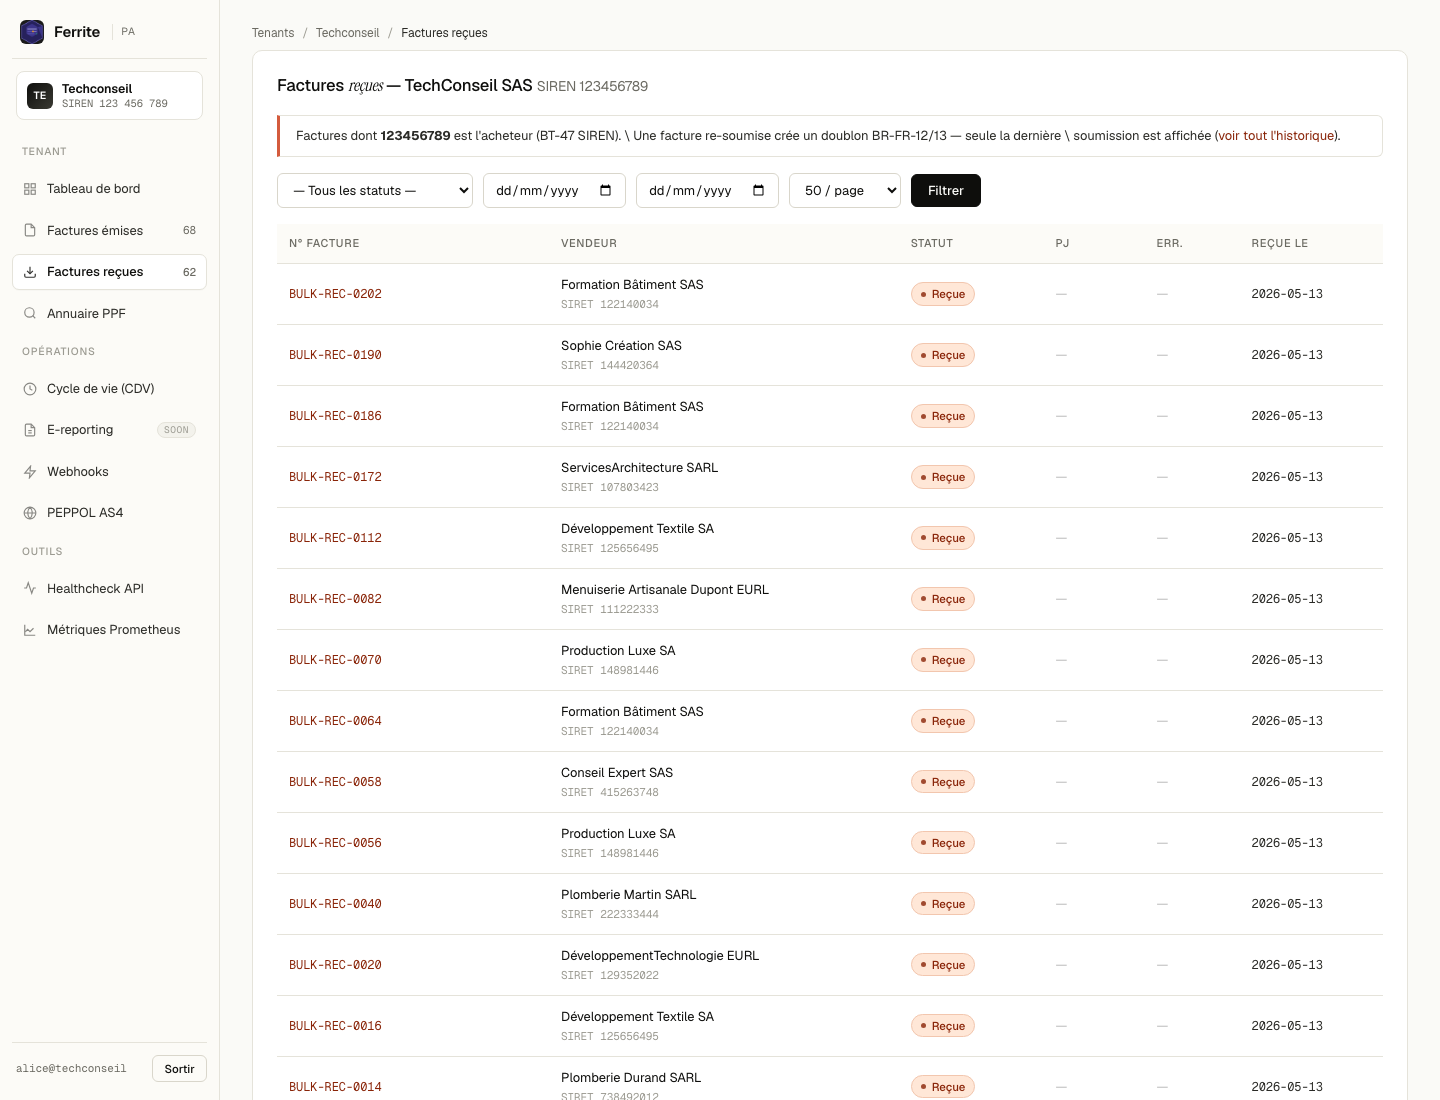
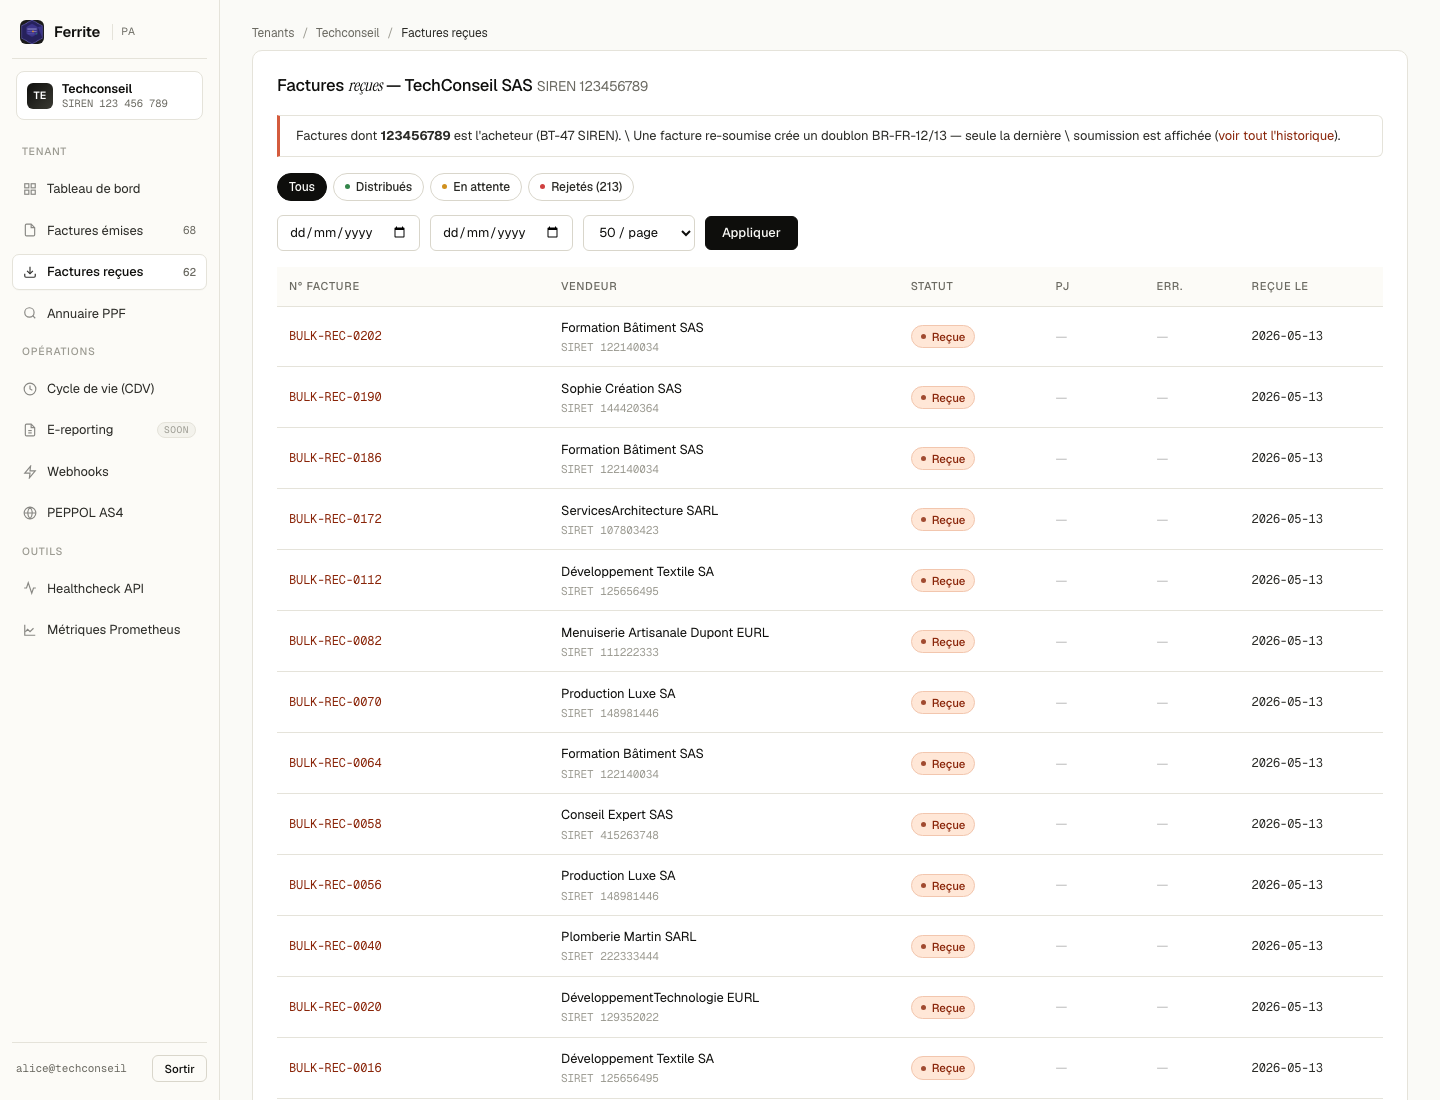
feat(ui): 4 sparklines KPI + filtres status en pills cliquables
- `TraceStore::daily_breakdown_for_siren` : nouvelle struct `DailyBreakdown`
  (total / distributed / pending / errors, 4 Vec<i64> alignés à droite).
  Une seule requête ES avec `date_histogram` + 2 sub-aggregations `filter`
  (distributed / errors). Pending calculé côté Rust pour cohérence avec
  `get_stats_for_siren`.
- Trait `TraceBackend` exposé avec impl par défaut zeros.
- Dashboard : les 4 KPI cards portent maintenant leur propre sparkline 14j
  (currentColor → thémé via `.kpi-card.success/.warn/.bad .spark`).
  La sparkline retourne une chaîne vide si max==0 → pas de noise visuel
  pour les KPI à zéro (ex: En attente).
- Pages Émises/Reçues : remplace le `<select>` status par une rangée de
  `.pill-filter` (liens GET qui préservent from/to/page_size). Pills
  thématiques avec dot color (good/warn/bad) et état actif coloré
  (bg-soft + border + text-ink de la couleur sémantique).
- L'ancien select disparaît, le formulaire garde dates + page_size +
  bouton Appliquer. Status est passé en hidden input pour le submit.

24/24 tests UI verts.

diff --git a/crates/pdp-app/src/ui.rs b/crates/pdp-app/src/ui.rs
@@ -478,6 +478,54 @@ ul.link-list {
 }
 ul.link-list a { font-size: 13.5px; }
 
+/* Filtres statut en pills cliquables (au-dessus de la table) */
+.pill-filters {
+    display: flex;
+    gap: 6px;
+    flex-wrap: wrap;
+    margin-bottom: 0.9rem;
+}
+.pill-filter {
+    display: inline-flex;
+    align-items: center;
+    gap: 6px;
+    font-size: 12px;
+    font-weight: 500;
+    padding: 4px 11px;
+    border-radius: 999px;
+    border: 1px solid var(--line-2);
+    background: #fff;
+    color: var(--ink-2);
+    text-decoration: none;
+    transition: border-color .12s ease, background .12s ease, color .12s ease;
+}
+.pill-filter:hover {
+    border-color: var(--ink-2);
+    color: var(--ink);
+    background: var(--bg-2);
+    text-decoration: none;
+}
+.pill-filter::before {
+    content: '';
+    width: 5px;
+    height: 5px;
+    border-radius: 50%;
+    background: var(--muted-2);
+}
+.pill-filter.pill-ok::before { background: var(--good); }
+.pill-filter.pill-wait::before { background: var(--warn); }
+.pill-filter.pill-err::before { background: var(--bad); }
+.pill-filter.pill-default::before { display: none; }
+.pill-filter.active {
+    border-color: var(--ink);
+    background: var(--ink);
+    color: var(--bg);
+}
+.pill-filter.active.pill-ok { border-color: var(--good-ink); background: var(--good-soft); color: var(--good-ink); }
+.pill-filter.active.pill-wait { border-color: var(--warn-ink); background: var(--warn-soft); color: var(--warn-ink); }
+.pill-filter.active.pill-err { border-color: var(--bad-ink); background: var(--bad-soft); color: var(--bad-ink); }
+.pill-filter.active::before { background: currentColor; opacity: 0.8; }
+
 .card {
     background: var(--card);
     border: 1px solid var(--line);
@@ -1274,10 +1322,16 @@ pub async fn handle_dashboard(
             let pending = stats.total_exchanges - stats.total_distributed - stats.total_errors;
             let tenant_name = resolve_tenant_name(&state, s).await;
             let tenant_label = tenant_name.as_deref().unwrap_or(s);
-            // Sparkline 14 jours sur la KPI "Total flux". Best-effort : si ES
-            // ne répond pas, on retombe sur un Vec vide → SVG vide.
-            let daily = store.daily_counts_for_siren(s, 14).await.unwrap_or_default();
-            let sparkline = sparkline_svg(&daily, 60, 22);
+            // 4 sparklines 14 jours (total / distribués / pending / erreurs) en
+            // une seule requête ES via filter aggregations. Best-effort.
+            let bk = store
+                .daily_breakdown_for_siren(s, 14)
+                .await
+                .unwrap_or_else(|_| pdp_trace::store::DailyBreakdown::zeros(14));
+            let spk_total = sparkline_svg(&bk.total, 60, 22);
+            let spk_distributed = sparkline_svg(&bk.distributed, 60, 22);
+            let spk_pending = sparkline_svg(&bk.pending, 60, 22);
+            let spk_errors = sparkline_svg(&bk.errors, 60, 22);
             format!(
                 r#"<div class="app-title">
     <h1>Flux <span class="serif">en circulation</span></h1>
@@ -1288,22 +1342,25 @@ pub async fn handle_dashboard(
         <div class="kpi-label">Total flux</div>
         <div class="kpi-value">{total}</div>
         <div class="kpi-delta">14 jours · index <code>pdp-{siren}</code></div>
-        {sparkline}
+        {spk_total}
     </div>
     <div class="kpi-card success">
         <div class="kpi-label">Distribués</div>
         <div class="kpi-value success">{distributed}</div>
         <div class="kpi-delta">{pct}% du total</div>
+        {spk_distributed}
     </div>
     <div class="kpi-card warn">
         <div class="kpi-label">En attente</div>
         <div class="kpi-value warning">{pending}</div>
         <div class="kpi-delta">Routage / annuaire PPF</div>
+        {spk_pending}
     </div>
     <div class="kpi-card bad">
         <div class="kpi-label">En erreur</div>
         <div class="kpi-value error">{errors}</div>
         <div class="kpi-delta bad">Rejets BR-FR ou pipeline</div>
+        {spk_errors}
     </div>
 </div>
 <div class="card">
@@ -1325,7 +1382,10 @@ pub async fn handle_dashboard(
                 } else {
                     0
                 },
-                sparkline = sparkline,
+                spk_total = spk_total,
+                spk_distributed = spk_distributed,
+                spk_pending = spk_pending,
+                spk_errors = spk_errors,
             )
         }
     };
@@ -1709,27 +1769,72 @@ async fn render_flows_list(
                     format!(r#"<option value="{n}"{sel}>{n} / page</option>"#)
                 })
                 .collect::<String>();
+            // Filtres statut : pills cliquables (lien GET) qui préservent les
+            // autres params (from/to/page_size) via la query string. Match le
+            // pattern .pill du design Ferrite Landing.
+            let pill_link = |value: &str, label: &str, klass: &str| -> String {
+                let active = q.status.as_deref() == if value.is_empty() {
+                    None
+                } else {
+                    Some(value)
+                };
+                let mut qs = format!("siren={}", html_escape(s));
+                if !value.is_empty() {
+                    // Encodage URL minimal pour le status (peut contenir É, etc.)
+                    let enc: String = value
+                        .bytes()
+                        .map(|b| match b {
+                            b'A'..=b'Z' | b'a'..=b'z' | b'0'..=b'9' | b'_' | b'-' | b'.' | b'~' => {
+                                (b as char).to_string()
+                            }
+                            _ => format!("%{:02X}", b),
+                        })
+                        .collect();
+                    qs.push_str(&format!("&status={}", enc));
+                }
+                if let Some(f) = q.from.as_deref().filter(|x| !x.is_empty()) {
+                    qs.push_str(&format!("&from={}", html_escape(f)));
+                }
+                if let Some(t) = q.to.as_deref().filter(|x| !x.is_empty()) {
+                    qs.push_str(&format!("&to={}", html_escape(t)));
+                }
+                if page_size != 50 {
+                    qs.push_str(&format!("&page_size={page_size}"));
+                }
+                format!(
+                    r#"<a href="{path}?{qs}" class="pill-filter {klass}{active_cls}">{label}</a>"#,
+                    path = direction.route_path(),
+                    qs = qs,
+                    klass = klass,
+                    active_cls = if active { " active" } else { "" },
+                    label = label,
+                )
+            };
+            let status_pills = format!(
+                r#"<div class="pill-filters">
+        {all}{ok}{wait}{err}
+    </div>"#,
+                all = pill_link("", "Tous", "pill-default"),
+                ok = pill_link("DISTRIBUÉ", "Distribués", "pill-ok"),
+                wait = pill_link("EN_ATTENTE", "En attente", "pill-wait"),
+                err = pill_link("ERREUR", "Rejetés (213)", "pill-err"),
+            );
             let filters_form = format!(
-                r#"<form method="get" action="{action}" class="filters">
+                r#"{status_pills}
+<form method="get" action="{action}" class="filters">
     <input type="hidden" name="siren" value="{siren}">
-    <select name="status">
-        <option value="">— Tous les statuts —</option>
-        <option value="DISTRIBUÉ" {sel_dist}>Transmise au destinataire</option>
-        <option value="ERREUR" {sel_err}>Rejetée (213)</option>
-        <option value="EN_ATTENTE" {sel_pending}>En cours de traitement</option>
-    </select>
+    <input type="hidden" name="status" value="{status}">
     <input type="date" name="from" value="{from}" placeholder="Du">
     <input type="date" name="to" value="{to}" placeholder="Au">
     <select name="page_size" title="Factures par page">
         {page_size_opts}
     </select>
-    <button type="submit">Filtrer</button>
+    <button type="submit">Appliquer</button>
 </form>"#,
+                status_pills = status_pills,
                 action = direction.route_path(),
                 siren = html_escape(s),
-                sel_dist = if q.status.as_deref() == Some("DISTRIBUÉ") { "selected" } else { "" },
-                sel_err = if q.status.as_deref() == Some("ERREUR") { "selected" } else { "" },
-                sel_pending = if q.status.as_deref() == Some("EN_ATTENTE") { "selected" } else { "" },
+                status = html_escape(q.status.as_deref().unwrap_or("")),
                 from = q.from.as_deref().unwrap_or(""),
                 to = q.to.as_deref().unwrap_or(""),
                 page_size_opts = page_size_opts,

diff --git a/crates/pdp-trace/src/store.rs b/crates/pdp-trace/src/store.rs
@@ -132,6 +132,29 @@ pub struct TraceStats {
     pub total_distributed: i64,
 }
 
+/// Séries temporelles quotidiennes utilisées par les sparklines du dashboard.
+/// Chaque Vec<i64> est de longueur `days` (alignée à droite : index 0 = jour le
+/// plus ancien, dernier index = aujourd'hui).
+#[derive(Debug, Clone, Serialize, Deserialize)]
+pub struct DailyBreakdown {
+    pub total: Vec<i64>,
+    pub distributed: Vec<i64>,
+    pub pending: Vec<i64>,
+    pub errors: Vec<i64>,
+}
+
+impl DailyBreakdown {
+    /// Constructeur "vide" — utile en fallback quand ES ne répond pas.
+    pub fn zeros(days: usize) -> Self {
+        Self {
+            total: vec![0; days],
+            distributed: vec![0; days],
+            pending: vec![0; days],
+            errors: vec![0; days],
+        }
+    }
+}
+
 /// Résumé d'un exchange (pour les listes)
 #[derive(Debug, Serialize, Deserialize)]
 pub struct ExchangeSummary {
@@ -1229,13 +1252,110 @@ impl TraceStore {
         })
     }
 
-    /// Renvoie le nombre de flux par jour pour un tenant sur les `days`
-    /// derniers jours (compteur cumulatif sur `seller_siren OR buyer_siren`),
-    /// dans l'ordre chronologique. Utilisé par les sparklines UI.
+    /// Renvoie 4 séries quotidiennes (total / distribués / erreurs / pending)
+    /// pour un tenant sur les `days` derniers jours, dans l'ordre chronologique.
+    /// Utilisé par les sparklines des 4 KPI du dashboard.
     ///
-    /// Utilise une agrégation ES `date_histogram` sur `created_at` avec
-    /// `extended_bounds` pour garantir un point par jour (même à zéro).
-    /// Retourne un `Vec<i64>` de longueur `days`.
+    /// Une seule requête ES avec un `date_histogram` + 2 `filter` sub-aggregations.
+    /// Pending est dérivé côté Rust (`total - distribués - erreurs`).
+    pub async fn daily_breakdown_for_siren(
+        &self,
+        siren: &str,
+        days: u32,
+    ) -> PdpResult<DailyBreakdown> {
+        let index = self.index_pattern();
+        let now = chrono::Utc::now();
+        let from = now - chrono::Duration::days(days as i64 - 1);
+        let body = serde_json::json!({
+            "size": 0,
+            "query": {
+                "bool": {
+                    "should": [
+                        { "term": { "seller_siren": siren } },
+                        { "term": { "buyer_siren": siren } }
+                    ],
+                    "minimum_should_match": 1
+                }
+            },
+            "aggs": {
+                "by_day": {
+                    "date_histogram": {
+                        "field": "created_at",
+                        "calendar_interval": "1d",
+                        "min_doc_count": 0,
+                        "extended_bounds": {
+                            "min": from.format("%Y-%m-%d").to_string(),
+                            "max": now.format("%Y-%m-%d").to_string(),
+                        },
+                        "time_zone": "UTC",
+                    },
+                    "aggs": {
+                        "distributed": {
+                            "filter": {
+                                "bool": {
+                                    "must": [
+                                        { "term": { "error_count": 0 } },
+                                        { "terms": { "status": TERMINAL_OK_STATUSES } }
+                                    ]
+                                }
+                            }
+                        },
+                        "errors": {
+                            "filter": {
+                                "bool": {
+                                    "should": [
+                                        { "range": { "error_count": { "gt": 0 } } },
+                                        { "terms": { "status": TERMINAL_FAIL_STATUSES } }
+                                    ],
+                                    "minimum_should_match": 1
+                                }
+                            }
+                        }
+                    }
+                }
+            }
+        });
+        let n = days as usize;
+        let resp = self
+            .client
+            .post(&format!("{}/{}/_search", self.base_url, index))
+            .json(&body)
+            .send()
+            .await
+            .map_err(|e| PdpError::TraceError(format!("Aggregation daily_breakdown échouée: {}", e)))?;
+        if !resp.status().is_success() {
+            return Ok(DailyBreakdown::zeros(n));
+        }
+        let json: serde_json::Value = resp
+            .json()
+            .await
+            .map_err(|e| PdpError::TraceError(format!("Parse réponse ES échouée: {}", e)))?;
+        let buckets = json["aggregations"]["by_day"]["buckets"]
+            .as_array()
+            .cloned()
+            .unwrap_or_default();
+        let mut total = vec![0i64; n];
+        let mut distributed = vec![0i64; n];
+        let mut errors = vec![0i64; n];
+        let start = n.saturating_sub(buckets.len());
+        for (i, b) in buckets.iter().enumerate() {
+            let idx = start + i;
+            if idx >= n { break; }
+            total[idx] = b["doc_count"].as_i64().unwrap_or(0);
+            distributed[idx] = b["distributed"]["doc_count"].as_i64().unwrap_or(0);
+            errors[idx] = b["errors"]["doc_count"].as_i64().unwrap_or(0);
+        }
+        let pending: Vec<i64> = total
+            .iter()
+            .zip(distributed.iter())
+            .zip(errors.iter())
+            .map(|((t, d), e)| (t - d - e).max(0))
+            .collect();
+        Ok(DailyBreakdown { total, distributed, pending, errors })
+    }
+
+    /// Variante legacy : ne retourne que la série `total`. Conservée pour
+    /// compatibilité, redirige vers `daily_breakdown_for_siren`.
     pub async fn daily_counts_for_siren(
         &self,
         siren: &str,

diff --git a/crates/pdp-trace/src/backend.rs b/crates/pdp-trace/src/backend.rs
@@ -12,7 +12,7 @@ use async_trait::async_trait;
 
 use pdp_core::error::PdpResult;
 
-use crate::store::{ExchangeDocument, ExchangeSummary, TraceStats};
+use crate::store::{DailyBreakdown, ExchangeDocument, ExchangeSummary, TraceStats};
 
 /// Méthodes de lecture du store de traçabilité utilisées par les handlers
 /// HTTP et UI. Tout est `async` (le store ES répond via HTTP).
@@ -77,6 +77,12 @@ pub trait TraceBackend: Send + Sync {
     async fn daily_counts_for_siren(&self, _siren: &str, days: u32) -> PdpResult<Vec<i64>> {
         Ok(vec![0; days as usize])
     }
+
+    /// Breakdown quotidien : total, distribués, pending, erreurs sur `days` jours.
+    /// Implémentation par défaut : zéros (les backends ES surchargent).
+    async fn daily_breakdown_for_siren(&self, _siren: &str, days: u32) -> PdpResult<DailyBreakdown> {
+        Ok(DailyBreakdown::zeros(days as usize))
+    }
 }
 
 #[async_trait]
@@ -137,5 +143,9 @@ impl TraceBackend for crate::store::TraceStore {
 
     async fn daily_counts_for_siren(&self, siren: &str, days: u32) -> PdpResult<Vec<i64>> {
         crate::store::TraceStore::daily_counts_for_siren(self, siren, days).await
+    }
+
+    async fn daily_breakdown_for_siren(&self, siren: &str, days: u32) -> PdpResult<DailyBreakdown> {
+        crate::store::TraceStore::daily_breakdown_for_siren(self, siren, days).await
     }
 }